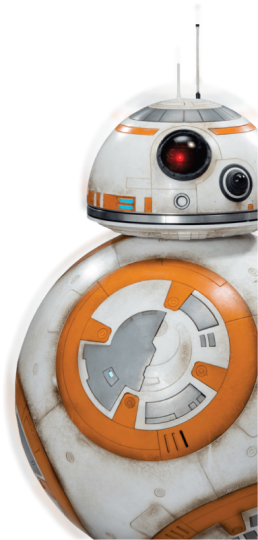
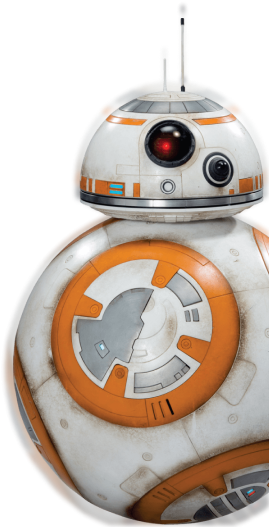
:art: Modifying  images effects

diff --git a/desafio-18/src/data/charactersData.ts b/desafio-18/src/data/charactersData.ts
@@ -2,36 +2,53 @@ import Rey from '../assets/rey.png';
 import Finn from '../assets/finn.png';
 import BB8 from '../assets/bb8.png';
 
-export const data = {
-  rey: {
-    name: "Rey Skywalker",
-    description: "Era uma catadora de sucata que descobriu ser sensível à Força durante sua busca ao lendário Mestre Jedi Luke Skywalker.",
-    movies: "The Force Awakens, The Last Jedi, The Rise of Skywalker & Forces of Destiny",
-    specie: "Humana",
-    height: "1,7m",
-    local: "Jakku",
-    weapons: "Sabre de luz, Blaster, Quarterstaff",
-    image: Rey
-  },
-  finn: {
-    name: "Finn",
-    description: "Comprometido com a causa da Resistência, Finn luta ao lado de seus amigos mais próximos na luta para derrotar a Primeira Ordem, o regime do mal que ele uma vez serviu como stormtrooper.",
-    movies: "The Force Awakens, The Last Jedi, The Rise of Skywalker",
-    specie: "Humana",
-    height: "1,78m",
-    local: "Jakku, Crait, Canto Bight",
-    weapons: "Sabre de luz, Blaster, Quarterstaff",
-    image: Finn
-  },
-  bb8: {
-    name: "BB-8",
-    description: "Um astromecânico medroso mas leal, BB-8 acompanhou Poe Dameron em muitas missões para a Resistência, ajudando a manter seu X-wing em ordem de funcionamento.",
-    movies: "The Force Awakens, The Last Jedi, The Rise of Skywalker & Forces of Destiny",
-    specie: "Droide Astromecânico",
-    height: "0,67m",
-    local: "Planeta da resistência",
-    weapons: "Nenhuma",
-    image: BB8
-  },
+export interface ICharacter {
+  character: {
+    name: string;
+    description: string;
+    movies: string;
+    specie: string;
+    height: string;
+    local: string;
+    weapons: string;
+    image: string;
+  };
 }
 
+export const data = {
+  rey: {
+    name: 'Rey Skywalker',
+    description:
+      'Era uma catadora de sucata que descobriu ser sensível à Força durante sua busca ao lendário Mestre Jedi Luke Skywalker.',
+    movies:
+      'The Force Awakens, The Last Jedi, The Rise of Skywalker & Forces of Destiny',
+    specie: 'Humana',
+    height: '1,7m',
+    local: 'Jakku',
+    weapons: 'Sabre de luz, Blaster, Quarterstaff',
+    image: Rey,
+  },
+  finn: {
+    name: 'Finn',
+    description:
+      'Comprometido com a causa da Resistência, Finn luta ao lado de seus amigos mais próximos na luta para derrotar a Primeira Ordem, o regime do mal que ele uma vez serviu como stormtrooper.',
+    movies: 'The Force Awakens, The Last Jedi, The Rise of Skywalker',
+    specie: 'Humana',
+    height: '1,78m',
+    local: 'Jakku, Crait, Canto Bight',
+    weapons: 'Sabre de luz, Blaster, Quarterstaff',
+    image: Finn,
+  },
+  bb8: {
+    name: 'BB-8',
+    description:
+      'Um astromecânico medroso mas leal, BB-8 acompanhou Poe Dameron em muitas missões para a Resistência, ajudando a manter seu X-wing em ordem de funcionamento.',
+    movies:
+      'The Force Awakens, The Last Jedi, The Rise of Skywalker & Forces of Destiny',
+    specie: 'Droide Astromecânico',
+    height: '0,67m',
+    local: 'Planeta da resistência',
+    weapons: 'Nenhuma',
+    image: BB8,
+  },
+};

diff --git a/desafio-18/src/App.tsx b/desafio-18/src/App.tsx
@@ -1,38 +1,27 @@
 import { data } from './data/charactersData';
-
-import { ListItem } from './components/ListItem';
+import { useState } from 'react';
+import { CharacterInfo } from './components/CharacterInfo';
 
 import './Sass/app.scss';
 
 export function App() {
+  const [state, setState] = useState({ finn: false, rey: true, bb8: false });
+
   const { rey, finn, bb8 } = data;
 
   return (
     <main>
-      <section className="Card Finn">
-        <span>Finn</span>
+      <section className={`Card Finn ${state.finn ? 'active' : ''}`} onClick={() => setState({ finn: true, rey: false, bb8: false })} >
+        {state.finn ? <CharacterInfo character={finn} /> : <span>{finn.name}</span>}
       </section>
- 
-      <section className="Card-active">
-        <div className="header">
-          <h1>{rey.name}</h1>
-          <h2>{rey.description}</h2>
-        </div>
 
-        <ul className="details">
-          <ListItem title="Filmes" subtitle={rey.movies} />
-          <ListItem title="Espécie" subtitle={rey.specie} />
-          <ListItem title="Altura" subtitle={rey.height} />
-          <ListItem title="Localidade" subtitle={rey.local} />
-          <ListItem title="Armas" subtitle={rey.weapons} />
-        </ul>
+      <section className={`Card Rey ${state.rey ? 'active' : ''}`} onClick={() => setState({ finn: false, rey: true, bb8: false })}>
+        {state.rey ? <CharacterInfo character={rey} /> : <span>{rey.name}</span>}
+      </section>
 
-        <img src={rey.image} alt="Rey Walker Star Wars" className="character" />
-      </section> 
-
-      <section className="Card BB8">
-        <span>BB8</span>
+      <section className={`Card BB8 ${state.bb8 ? 'active' : ''}`} onClick={() => setState({ finn: false, rey: false, bb8: true })}>
+        {state.bb8 ? <CharacterInfo character={bb8} /> : <span>{bb8.name}</span>}
       </section>
     </main>
-  )
+  );
 }

diff --git a/desafio-18/src/Sass/app.scss b/desafio-18/src/Sass/app.scss
@@ -1,21 +1,17 @@
 main {
   width: 91.6rem;
-
   display: flex;
   justify-content: space-between;
-
   position: relative;
 
   .Card {
+    overflow: hidden;
     width: 34.8rem;
     height: 48.6rem;
-
     display: grid;
     place-items: center;
-
     border-radius: 1.6rem;
     box-shadow: var(--secondary-shadow);
-    overflow: hidden;
   }
 
   .Card.Finn {
@@ -30,44 +26,48 @@ main {
     background: url(../assets/rey-overlay.png);
   }
 
-  .Card-active {
+  .Card:not(.active) {
+    cursor: pointer;
+  }
+
+  .Card:not(.active):hover {
+    scale: 1.1;
+    transition: 0.3s ease-in-out;
+  }
+
+  .Card.active {
     width: 43.6rem;
     height: 60.8rem;
-
     padding: 4.8rem 0 0 4rem;
-
-    display: flex;
-    flex-direction: column;
-    gap: 6rem;
-
-    border-radius: 2rem;
-    overflow: hidden;
-
     position: absolute;
     top: -12%;
     left: 50%;
     transform: translateX(-50%);
-
+    z-index: 9999;
+    display: flex;
+    flex-direction: column;
+    place-items: initial;
+    gap: 6rem;
+    border-radius: 2rem;
     background: url(../assets/overlay-active.png);
     box-shadow: var(--main-shadow);
 
     .header {
       width: 26.6rem;
-
       display: grid;
       gap: 1.6rem;
     }
 
     .details {
       width: 19.8rem;
-
       display: grid;
       gap: 1.6rem;
     }
 
-    .character {
+    img {
       position: absolute;
       right: 0;
+      bottom: 0;
     }
   }
 }

diff --git a/desafio-18/src/components/CharacterInfo.tsx b/desafio-18/src/components/CharacterInfo.tsx
@@ -1,0 +1,23 @@
+import { ICharacter } from '../data/charactersData';
+import { ListItem } from './ListItem';
+
+export function CharacterInfo({ character }: ICharacter) {
+  return (
+    <>
+      <div className="header">
+        <h1>{character.name}</h1>
+        <h2>{character.description}</h2>
+      </div>
+
+      <ul className="details">
+        <ListItem title="Filmes" subtitle={character.movies} />
+        <ListItem title="Espécie" subtitle={character.specie} />
+        <ListItem title="Altura" subtitle={character.height} />
+        <ListItem title="Localidade" subtitle={character.local} />
+        <ListItem title="Armas" subtitle={character.weapons} />
+      </ul>
+
+      <img src={character.image} alt="Rey Walker Star Wars" />
+    </>
+  );
+}
